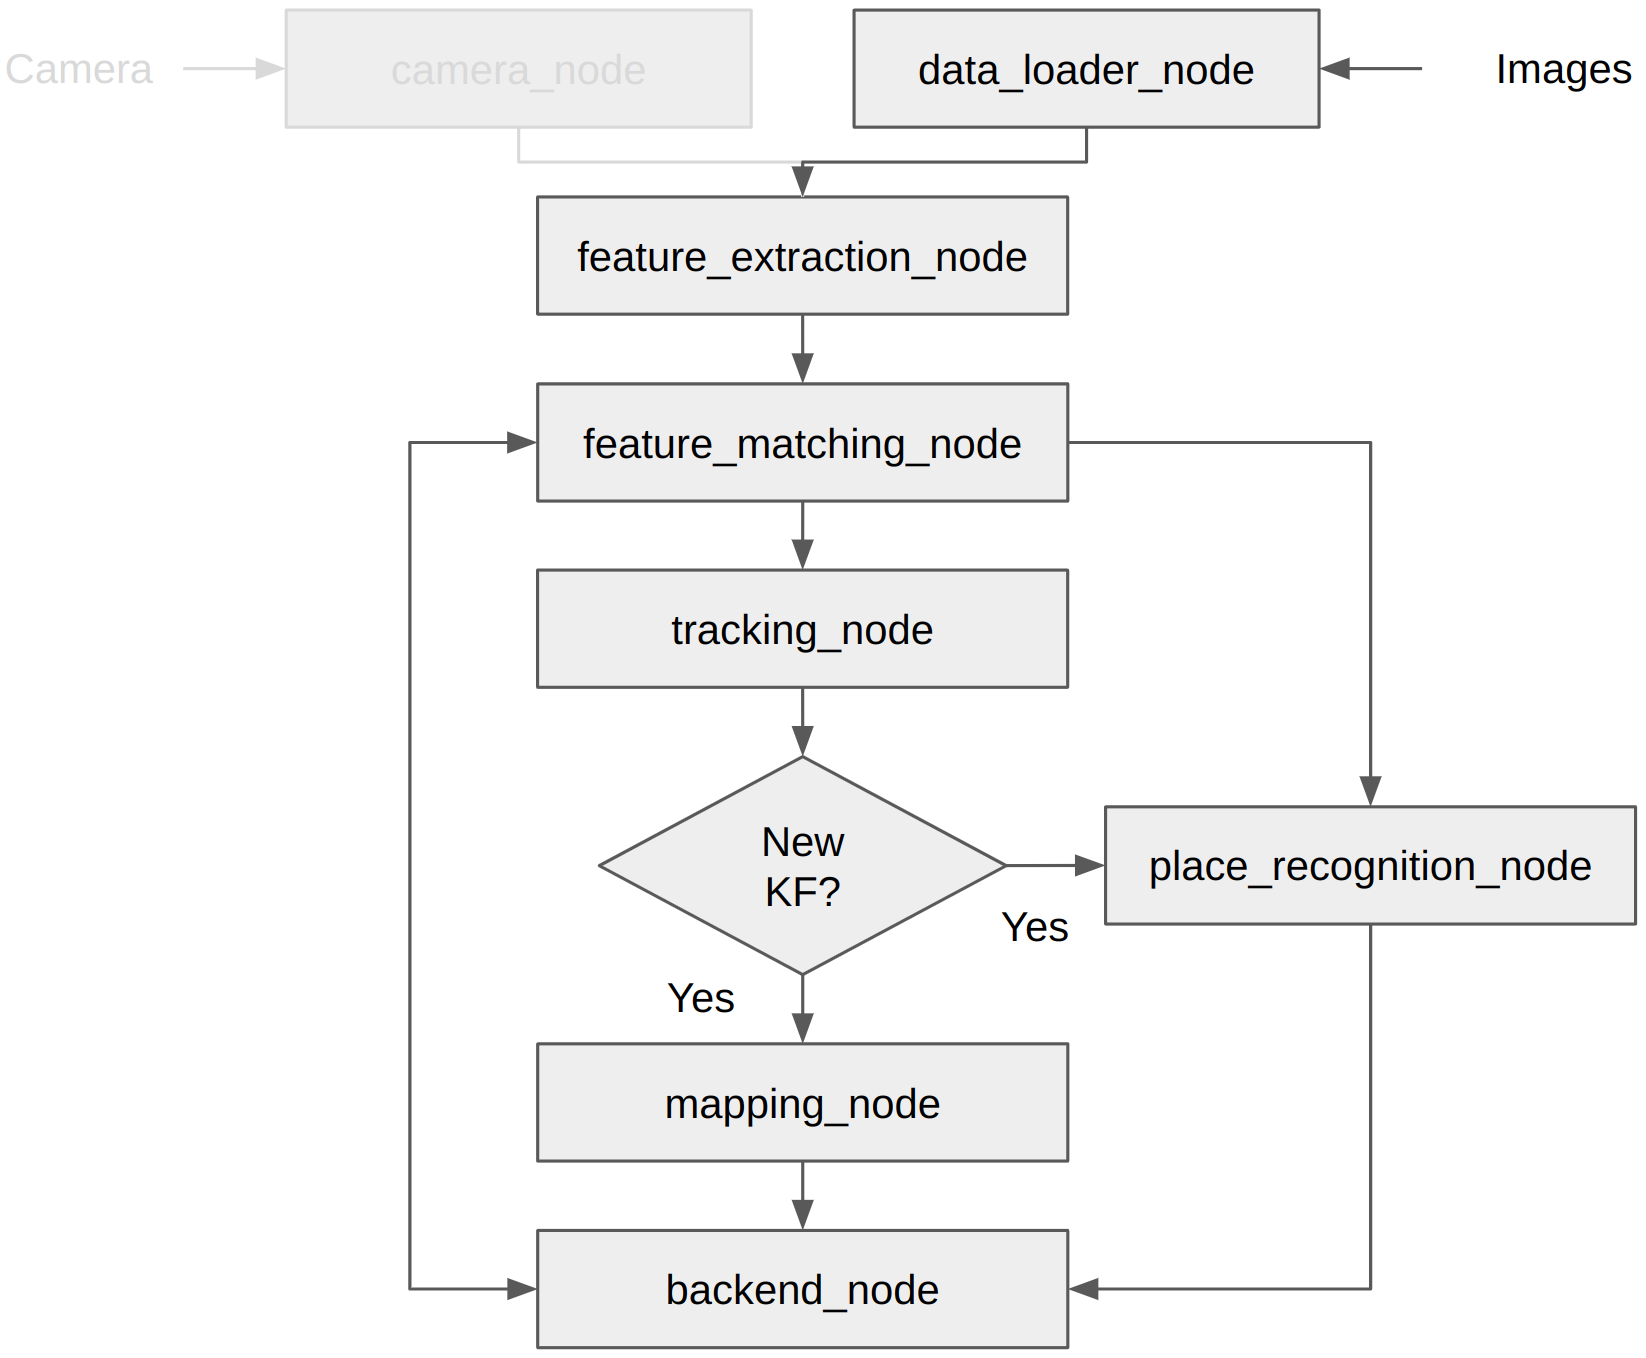
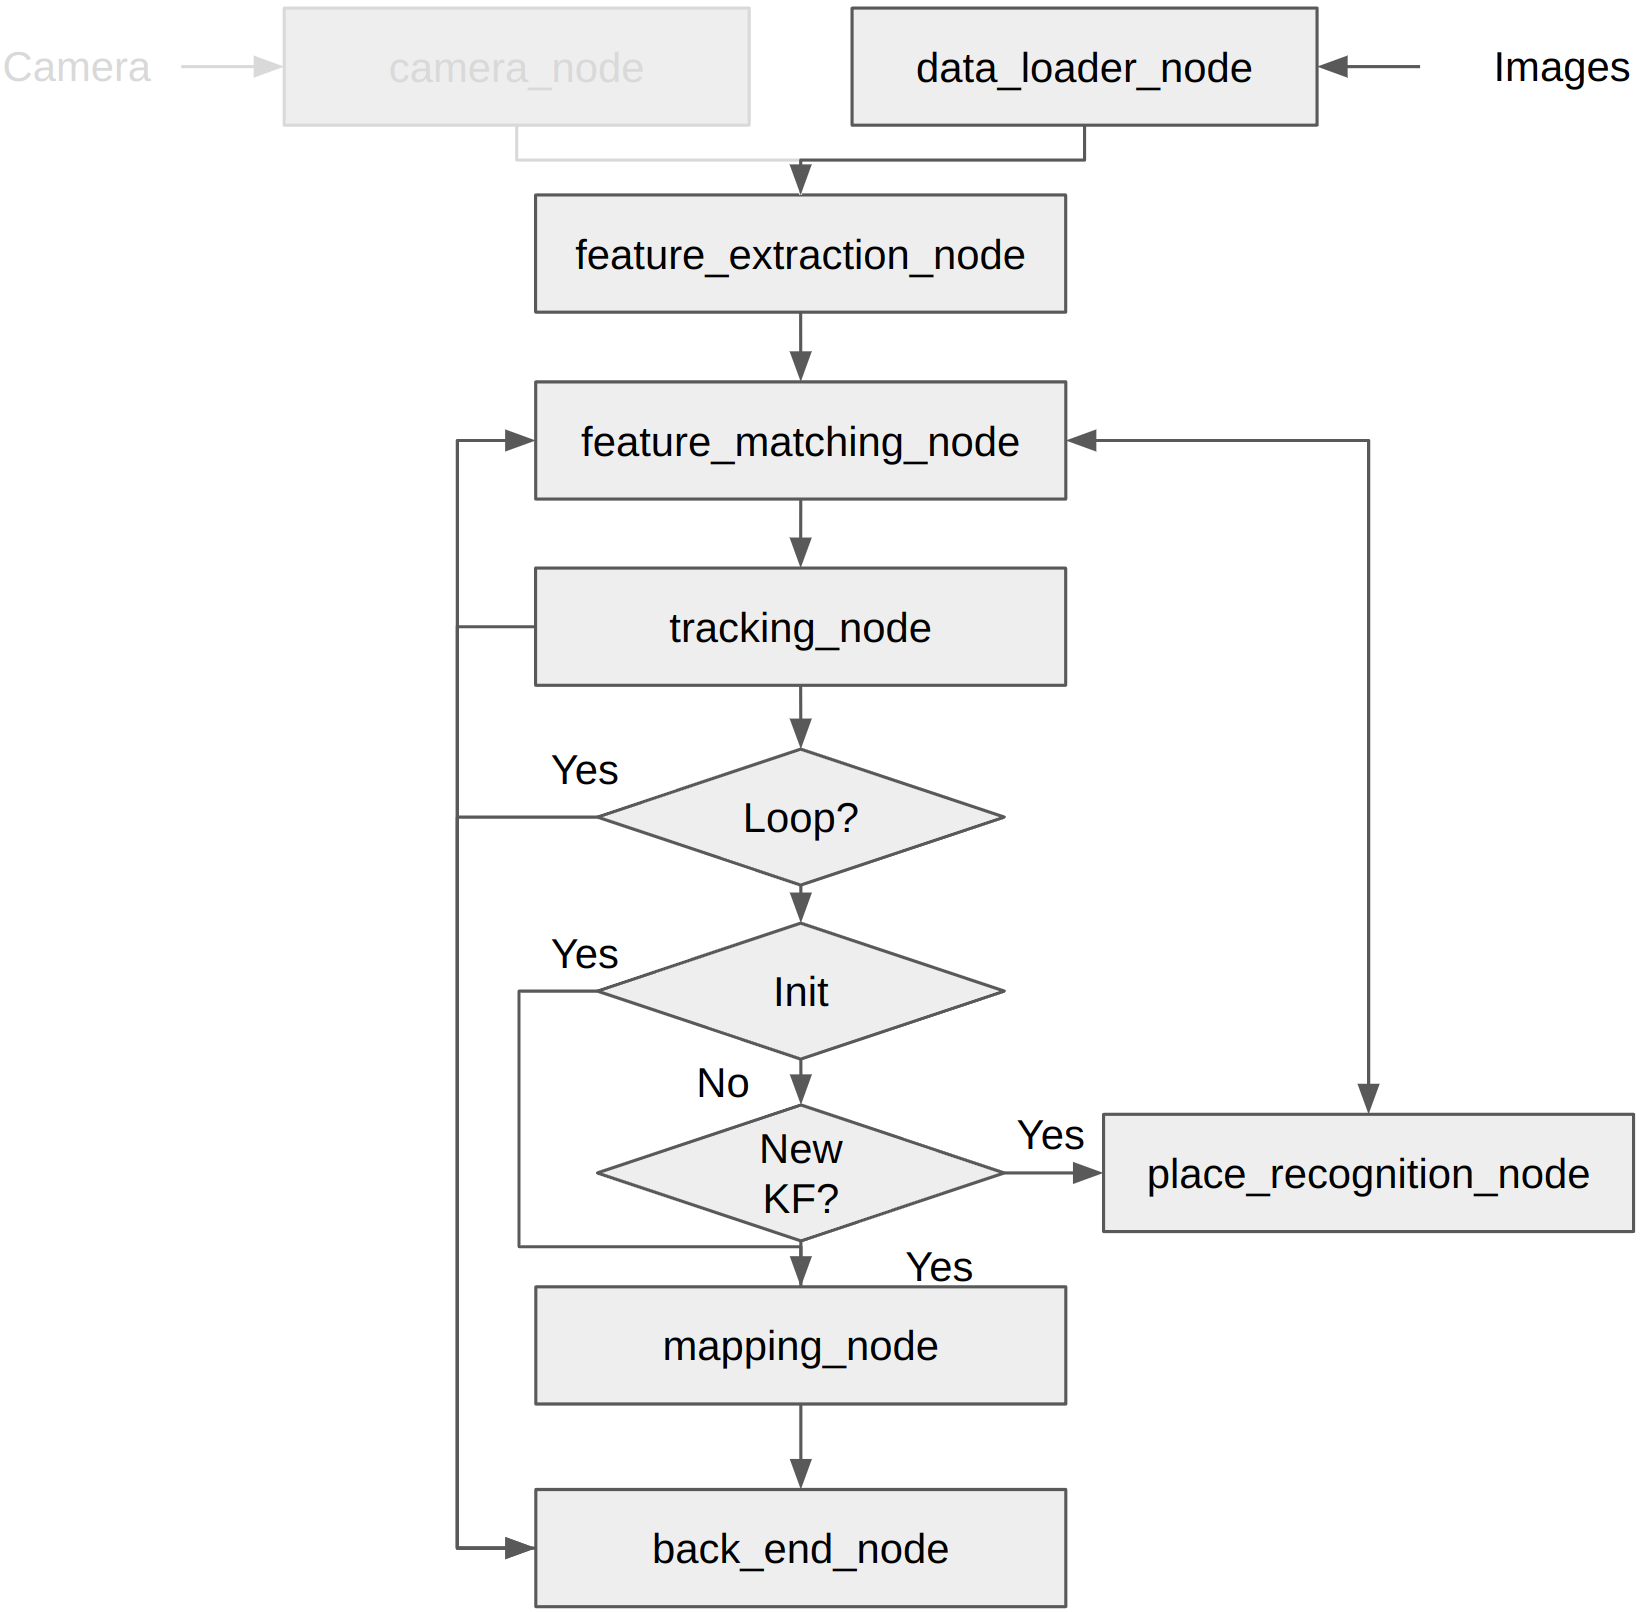
Documentation: update interfaces and pipeline

diff --git a/docs/visual-slam-framework-research-document/txt/body.tex b/docs/visual-slam-framework-research-document/txt/body.tex
@@ -15,7 +15,7 @@ Specifically, each component in the framework can be defined as a module, which 
 A good visual SLAM framework allows for integrating the camera tracking, mapping, loop closing and visualization components and the intercommunication between them.
 A good starting point is to study the self-driving car or autopilot projects on GitHub, notably \href{https://github.com/ApolloAuto/apollo}{Apollo by Baidu} and \href{https://gitlab.com/autowarefoundation/autoware.auto/AutowareAuto}{Autoware.Auto}\footnote{New versions of Autoware are under development, which can be found \href{https://github.com/autowarefoundation/autoware}{here}}.
 They use their own middleware (\href{https://cyber-rt.readthedocs.io/en/latest/index.html}{Cyber RT}) and \href{https://docs.ros.org/en/humble/}{ROS2}. 
-Wu et al.~\ref{wu2021oops} show that ROS2 is better than Cyber RT in terms of latency and CPU usage and recommend the use of shared memory (specifically intra-process (IAP) in ROS2) over data serialization/deserialization for the best latency and reliability.
+Wu et al.~\cite{wu2021oops} show that ROS2 is better than Cyber RT in terms of latency and CPU usage and recommend the use of shared memory (specifically intra-process (IAP) in ROS2) over data serialization/deserialization for the best latency and reliability.
 Additionally, ROS2 is commonly adopted in robotics projects, with the support of new sensor integration. 
 
 Among the existing visual SLAM systems, ORB-SLAM3 is one of the most practical and open-source visual SLAM system.
@@ -34,18 +34,27 @@ To promote flexibility, we can organize the visual SLAM components as individual
 Figure~\ref{fig:vslam_pipeline} shows the proposed visual SLAM pipeline with the components implemented as individual composable nodes. 
 The role of each node is described as follows:
 \begin{itemize}
-  \item \textbf{data\_loader\_node} takes in a list of images from a folder and convert them into the Frame message, which contains the image and the camera information.
+  \item \textbf{data\_loader\_node} takes in a list of images from a folder and converts them into the Frame message, which contains the image and the camera information.
   
   \item \textbf{feature\_extraction\_node} calculates the features (e.g., corners or high-gradient image regions) in the image.
   
-  \item \textbf{feature\_matching\_node} finds feature correspondences between the current frame and the nearest keyframe in the back-end.
-  If the system is in the initialization state, the current frame will be set as the tentative keyframe.  
-  If the system is in the relocalization mode, the current keyframe 
+  \item \textbf{feature\_matching\_node} finds feature correspondences between the current frame and the nearest keyframe in the back-end during the tracking state.
+  If the system is in the initialization state, the current frame will be set as the tentative keyframe and the node sets the mode to attempt initialization.
+  In the attempt initialization state, any failure that occurs in tracking and mapping will reset the state back to initialization.
+  If the system is in the relocalization mode, the current keyframe image is published to the place recognition node to find a candidate keyframe index, which is used to request the keyframe in the back-end to perform feature matching.
+  In the event of failure to find correspondences, the node will set the state to relocalization.
 
-  \item \textbf{tracking\_node}  
+  \item \textbf{tracking\_node} calculates the relative pose between the current frame and the current keyframe. 
+  If the calculation fails to converge, then the node will set the state to relocalization. 
 
-  \item \textbf{mapping\_node} calculates the current camera pose relative to the current keyframe. If there is no keyframe, it initiates the initialization step, which performs 2D-2D camera tracking and request for a new map. 
+  \item \textbf{mapping\_node} triangulates a set of new map points based on the relative pose and the feature correspondences that don't have a 3D point. 
 
+  \item \textbf{place\_recognition\_node} is used in two cases. 
+  In the relocalization mode, it is used to find the candidate keyframe to recover tracking.
+  When a new keyframe is created, it attempts to find a similar-looking image in the database and informs \textbf{feature\_matching\_node} to try to find new correspondences.
+
+  \item \textbf{back\_end\_node} has two main responsibility: provide the current keyframe and optimize the graph based on the constraints given by the \textbf{feature\_matching\_node} and \textbf{tracking\_node}.
+   
 \end{itemize}
 
 \subsection{Interfaces}
@@ -78,9 +87,32 @@ The role of each node is described as follows:
     # Camera pose
     geometry_msgs/Pose pose
     
-    # List of points and their correspondences in another frame
+    # List of points
     vslam_msgs/Point [] pts
+  \end{verbatim}
+
+  \item \textbf{vslam\_msgs/FramePair}
+  \begin{verbatim}
+    # Constraint types
+    uint8 FOR_INIT = 0
+    uint8 FOR_TRACKING = 1
+    uint8 FOR_LOOP_CLOSURE = 2
+    uint8 FOR_RELOCALIZATION = 3
+
+    # Constraints to be established in the feature matching and tracking 
+
+    # The frame pair
+    # frame1 is the existing/reference frame
+    vslam_msgs/Frame frame1
+    vslam_msgs/Frame frame2
+
+    # Relative transformation
+    geometry_msgs/Pose pose12
+
+    # The matched points
     vslam_msgs/MatchedPoint [] matches
+
+    uint8 constraint_type = 0
   \end{verbatim}
 
   \item \textbf{vslam\_msgs/MatchedPoint}
@@ -91,6 +123,9 @@ The role of each node is described as follows:
 
   \item \textbf{vslam\_msgs/Vector3d}
   \begin{verbatim}
+    # unique point id for establishing correspondence
+    uint64 id
+
     float64 x
     float64 y  
     float64 z 
@@ -98,6 +133,9 @@ The role of each node is described as follows:
 
   \item \textbf{vslam\_msgs/Vector2d}
   \begin{verbatim}
+    # unique point id for establishing correspondence
+    uint64 id
+
     float64 x 
     float64 y 
   \end{verbatim}
@@ -114,7 +152,7 @@ The role of each node is described as follows:
     bool has_mp = false
     
     # Feature
-    vslam_msgs/Feature feature    
+    vslam_msgs/Feature descriptor    
   \end{verbatim}
 
   \item \textbf{vslam\_msgs/Feature}
@@ -151,16 +189,35 @@ The role of each node is described as follows:
     vslam_msgs/Frame keyframe
     
     # Return true if a keyframe is found
-    # Could be false if the tracking is lost and there is no 
-    #   similar-looking image found
     bool has_keyframe
   \end{verbatim}
 
   \item \textbf{vslam\_msgs/SetKeyFrame}
   \begin{verbatim}
+    # Assume nodes' good faith, i.e.,
+    # nodes are not going to sabotage the system
     vslam_msgs/Frame keyframe
     ---
     # Indicate if the keyframe is set
+    bool success
+  \end{verbatim}
+
+  \item \textbf{vslam\_msgs/FindKeyFrame}
+  \begin{verbatim}
+    # Attempt to find a similar-looking keyframe
+    vslam_msgs/Frame frame
+    ---
+    # Indicate if a similar-looking frame is found
+    # Default to -1, which means no similar-looking frame is found
+    int64 frame_id = -1
+  \end{verbatim}
+
+  \item \textbf{vslam\_msgs/AddKeyFrameToPlaceRecognitionDb}
+  \begin{verbatim}
+    # Add the frame to the database for loop closure detection
+    vslam_msgs/Frame frame
+    ---
+    # Indicate if the frame is successfully added
     bool success
   \end{verbatim}
 
@@ -176,6 +233,8 @@ The role of each node is described as follows:
   \begin{verbatim}
     # Set the state of the system 
     #   (e.g., initialization, tracking or relocalization)
+    # Assume nodes' good faith, i.e.,
+    # nodes are not going to sabotage the system
     vslam_msgs/State state
     ---
     # Indicate if the state is set
@@ -184,8 +243,194 @@ The role of each node is described as follows:
   \end{verbatim}
 \end{itemize}
 
+\subsubsection{Nodes}
+
+\begin{itemize}
+  \item \textbf{data\_loader\_node}
+  \begin{itemize}
+    \item Member functions:
+\begin{lstlisting}
+  # Publish the frame containing the image and camera information
+  #   to @\textbf{frame\_callback}@
+  @\textbf{publish\_frame}@() $\rightarrow$ vslam_msgs/Frame
+\end{lstlisting}
+
+    \item Member attributes:
+\begin{lstlisting}
+  # a folder containing the images
+  @\textbf{path\_to\_images}@ 
+    
+  # A cam_info data structure containing the camera information 
+  #   (e.g., intrinsics, distortion parameters, camera model, etc.)
+  @\textbf{cam\_info}@
+\end{lstlisting}
+  \end{itemize}  
+  
+  \item \textbf{feature\_extraction\_node}
+  \begin{itemize}
+    \item Member functions:
+\begin{lstlisting}
+  # Calculate the 2D features in the image
+  # Algorithm:
+  # image $\leftarrow$ get the image from the frame
+  # Calculate the 2D feature points and optionally descriptors
+  #   and save them in vslam_msgs/Point []
+  @\textbf{frame\_callback}@(vslam_msgs/Frame) $\rightarrow$ vslam_msgs/Frame
+\end{lstlisting}
+
+    \item Member attributes:
+\begin{lstlisting}
+  # A config data structure containing the feature extraction 
+  #   settings (e.g., number of features)
+  @\textbf{config}@
+\end{lstlisting}
+  \end{itemize}  
 
 
+  \item \textbf{feature\_matching\_node}
+  \begin{itemize}
+    \item Member functions:
+\begin{lstlisting}
+  # Attempt to establish 3D-2D and\or 2D-2D correspondences
+  # Algorithm:
+  # state $\leftarrow$ Get the state from the back-end
+  # if the state is initialization
+  #   set the current frame as the keyframe
+  #   set the state as attempt_initialization
+  #   return
+  # elif the state is attempt_initialization or tracking
+  #   curr_kf $\leftarrow$ Get the current keyframe
+  #   matches $\leftarrow$ Find feature correspondences 
+  #   if len(matches) < num_matches_thresh
+  #     Set the state to relocalization
+  #     return
+  #   else
+  #     frame_pair $\leftarrow$ Create a vslam_msgs/FramePair 
+  #     populate the frame_pair attributes 
+  #     if state is attempt_initialization
+  #       set constraint type in frame_pair to FOR_INIT
+  #     else
+  #       set constraint type in frame_pair to FOR_TRACKING
+  #     publish frame_pair to @\textbf{track\_pose12}@
+  # else # the state is relocalization
+  #   candidate_frame_id $\leftarrow$ Find a candidate keyframe
+  #   candidate_keyframe $\leftarrow$ Get the candidate keyframe using the id
+  #   matches $\leftarrow$ Find feature correspondences
+  #   if len(matches) > num_matches_thresh:
+  #     frame_pair $\leftarrow$ Create a vslam_msgs/FramePair 
+  #     populate the frame_pair attributes 
+  #     set constraint type in frame_pair to FOR_RELOCALIZATION
+  #     publish frame_pair to @\textbf{track\_pose12}@
+  @\textbf{frame\_callback}@(vslam_msgs/Frame) $\rightarrow$ vslam_msgs/FramePair
+
+  # Attempt to establish 3D-2D correspondences
+  #   when a new keyframe is created and a candidate loop is found
+  # Algorithm:
+  # frame_id $\leftarrow$ Get frame1's id (the candidate keyframe)
+  # frame1 $\leftarrow$ Get the frame using the frame_id from back-end
+  # matches $\leftarrow$ Find feature correspondences
+  # if len(matches) > num_matches_thresh:
+  #   publish frame_pair
+  @\textbf{place\_recognition\_callback}@(vslam_msgs/FramePair) $\rightarrow$ 
+    vslam_msgs/FramePair to @\textbf{place\_recognition\_callback}@
+
+  # Private function
+  # Calculate 3D-2D camera pose
+  @\textbf{track\_camera\_3d2d}@
+
+  # Private function
+  # Calculate 2D-2D camera pose
+  @\textbf{track\_camera\_2d2d}@
+
+\end{lstlisting}
+
+    \item Member attributes:
+\begin{lstlisting}
+  # Minimum number of matches
+  @\textbf{num\_matches\_thresh}@
+\end{lstlisting}
+  \end{itemize}  
+
+  \item \textbf{tracking\_node}
+  \begin{itemize}
+    \item Member functions:
+\begin{lstlisting}
+  # Calculate the relative transformation between the frame pair
+  # Algorithm:
+  # if constraint_type is FOR_INIT
+  #   tracking_quality, pose12 $\rightarrow$ calculate the relative pose 
+  #     from 2D-2D correspondences
+  #   if tracking_quality is good
+  #     publish frame_pair to @\textbf{mapping\_callback}@
+  #   else
+  #     set the state to RELOCALIZATION
+  # elif constraint_type is FOR_TRACKING
+  #   tracking_quality, pose12 $\rightarrow$ calculate the relative pose 
+  #     from 3D-2D correspondences
+  #   if tracking_quality is good
+  #     Attempt to find a closed loop to establish another constraint
+  #     frame_id $\rightarrow$ find a candidate keyframe
+  #     if frame_id != -1:
+  #       candidate_keyframe $\rightarrow$ get the candidate keyframe
+  #       frame_pair $\rightarrow$ create a FramePair instance
+  #       populate frame_pair with relevant information 
+  #         (e.g., frame1=candidate_keyframe, frame2=current_frame)
+  #       publish the frame_pair to @\textbf{place\_recognition\_callback}@
+  #     
+  #     if pose12 satisfies the new keyframe criteria
+  #       add the current keyframe to the place_recognition_node  
+  #         database for loop closure detection 
+  #       publish the frame_pair to @\textbf{mapping\_callback}@
+  #   else
+  #     set the state to RELOCALIZATION
+\end{lstlisting}
+
+    \item Member attributes:
+\begin{lstlisting}
+
+\end{lstlisting}
+  \end{itemize} 
+
+  \item \textbf{mapping\_node}
+  \begin{itemize}
+    \item Member functions:
+\begin{lstlisting}
+  @\textbf{mapping\_callback}@
+  
+\end{lstlisting}
+
+    \item Member attributes:
+\begin{lstlisting}
+
+\end{lstlisting}
+  \end{itemize} 
+
+  \item \textbf{place\_recognition\_node}
+  \begin{itemize}
+    \item Member functions:
+\begin{lstlisting}
+  # Find the candidate 
+  @\textbf{place\_recognition\_callback}@
+\end{lstlisting}
+
+    \item Member attributes:
+\begin{lstlisting}
+
+\end{lstlisting} 
+  \end{itemize} 
+  \item \textbf{back\_end\_node}
+  \begin{itemize}
+    \item Member functions:
+\begin{lstlisting}
+  
+\end{lstlisting}
+
+    \item Member attributes:
+\begin{lstlisting}
+
+\end{lstlisting}
+  \end{itemize} 
+\end{itemize}
 
 
 

diff --git a/docs/visual-slam-framework-research-document/main.tex b/docs/visual-slam-framework-research-document/main.tex
@@ -11,8 +11,14 @@
 %%%%%%%%%%%%%%%%%%%%%%%%%%%%%%%%%%%%%%%%
 \usepackage[english]{babel}
 \usepackage{csquotes}
-% \usepackage{xcolor, soul}
-% \sethlcolor{gray}
+
+\usepackage{lmodern}
+\usepackage{listings}% http://ctan.org/pkg/listings
+\lstset{
+  basicstyle=\ttfamily,
+  escapechar=@,
+  mathescape
+}
 
 % % Uncomment using "Ctrl + /" (/ on numpad):
 % % Customizing headers and footers:
